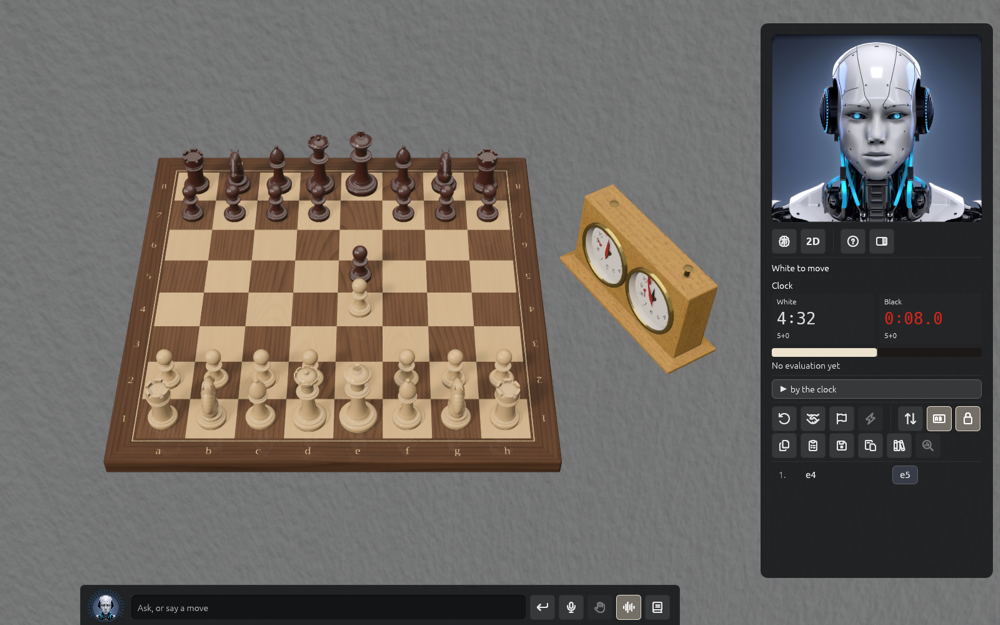
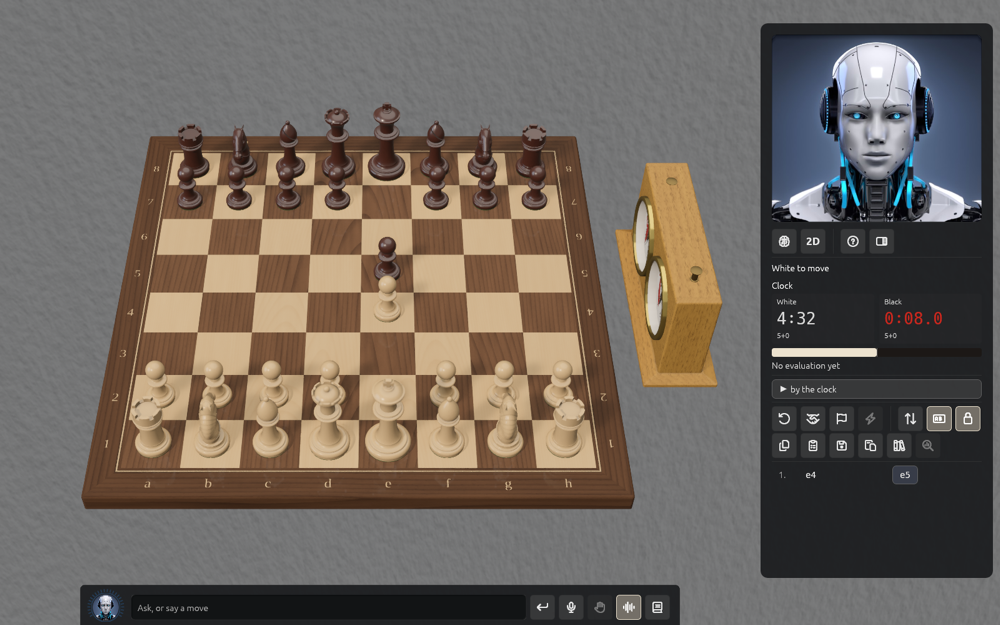
Playing: the analog clock faces the board, as the digital clock does (cjus/chessgui#942)
It is no longer turned toward the player's side: it stands beside the board and facing it, the same for both players. The picture is remade to match.

Changed region(s): [[0.062, 0.152, 0.744, 0.8208]]

diff --git a/book/src/playing.md b/book/src/playing.md
@@ -84,12 +84,11 @@ increment turns them back. A red flag by the 11 is lifted by the minute hand in 
 minutes of each hour and drops as the hand reaches 12; the drop with the hour hand at 12 ends
 the game. The buttons on top follow the game too: the side to move has its button up, and it
 goes down as that side's move is made and the clock is pressed. Before both sides have moved
-once, in a pause and after the game, both are up. The clock stands turned a little toward your
-side of the board, so that you can read its dials, and swings round when you flip the board. It
-takes more room than the digital clock, so the board is drawn a little smaller beside it. The
-panel's clocks show the exact figures, and Solrac remembers which clock you chose.
+once, in a pause and after the game, both are up. The clock stands as the digital one does, and
+as a clock does at a tournament board: beside the board and facing it, the same for both
+players. The panel's clocks show the exact figures, and Solrac remembers which clock you chose.
 
-![The wooden analog clock beside the board, turned toward the player: White's dial at 11:55 and Black's a few seconds from 12, its red flag lifted](images/analog-clock.png)
+![The wooden analog clock beside the board, facing it: White's dial at 11:55 and Black's a few seconds from 12, its red flag lifted](images/analog-clock.png)
 
 When a flag falls the player loses on time, unless the other side couldn't have mated, which is a
 draw.
